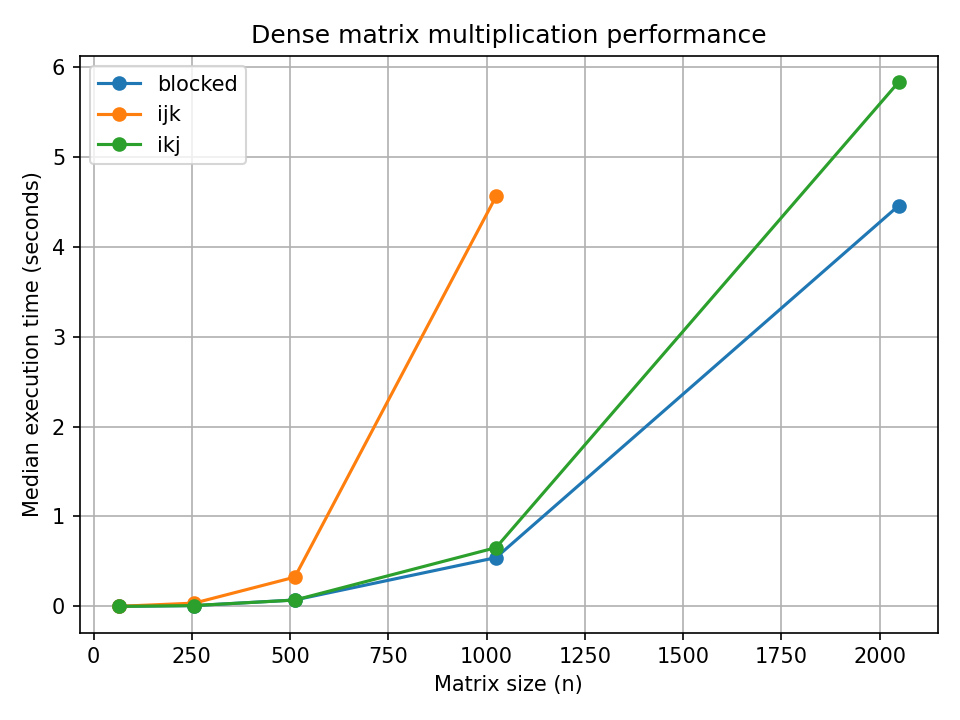
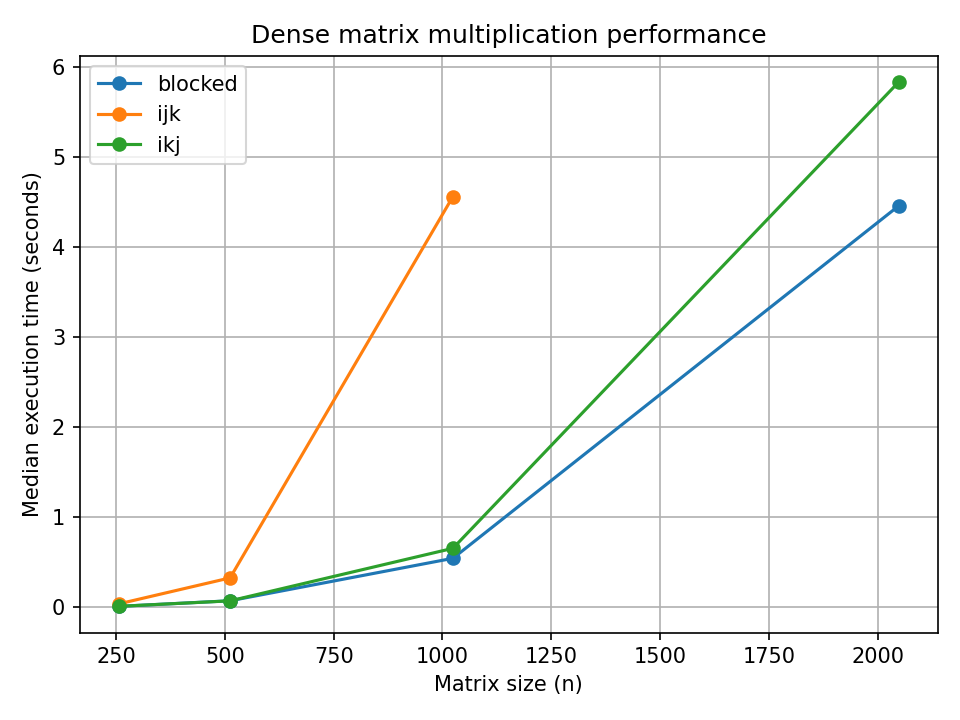
Fix benchmark plots to exclude test sizes

diff --git a/scripts/plot_results.py b/scripts/plot_results.py
@@ -6,9 +6,15 @@ from pathlib import Path
 results = Path("results")
 results.mkdir(exist_ok=True)
 
+# Official benchmark sizes (exclude small test runs)
+dense_sizes = [256, 512, 1024, 2048]
+sparse_sizes = [256, 512, 1024]
+
 # 1. Dense matrix multiplication
 dense = pd.read_csv(results / "dense_results.csv")
+dense = dense[dense["size"].isin(dense_sizes)]
 
+# Median of the three measured repetitions
 summary = (
     dense.groupby(["size", "method"])["time_seconds"]
     .median()
@@ -17,7 +23,13 @@ summary = (
 
 plt.figure()
 for method, group in summary.groupby("method"):
-    plt.plot(group["size"], group["time_seconds"], marker="o", label=method)
+    group = group.sort_values("size")
+    plt.plot(
+        group["size"],
+        group["time_seconds"],
+        marker="o",
+        label=method
+    )
 
 plt.xlabel("Matrix size (n)")
 plt.ylabel("Median execution time (seconds)")
@@ -30,9 +42,11 @@ plt.close()
 
 # 2. Sparse matrix multiplication
 sparse = pd.read_csv(results / "sparse_results.csv")
+sparse = sparse[sparse["size"].isin(sparse_sizes)]
 
 plt.figure()
 for zero_percent, group in sparse.groupby("zero_percent"):
+    group = group.sort_values("size")
     plt.plot(
         group["size"],
         group["csr_seconds"],
@@ -49,13 +63,10 @@ plt.tight_layout()
 plt.savefig(results / "sparse_times.png", dpi=150)
 plt.close()
 
-# 3. Dense vs CSR execution time
-
-# 3. Dense vs CSR execution time at n=1024
+# 3. Dense vs CSR multiplication at n=1024
 comparison = sparse[sparse["size"] == 1024].sort_values("zero_percent")
 
 plt.figure(figsize=(8, 5))
-
 plt.plot(
     comparison["zero_percent"],
     comparison["dense_seconds"],
@@ -63,7 +74,6 @@ plt.plot(
     linewidth=2,
     label="Dense"
 )
-
 plt.plot(
     comparison["zero_percent"],
     comparison["csr_seconds"],
